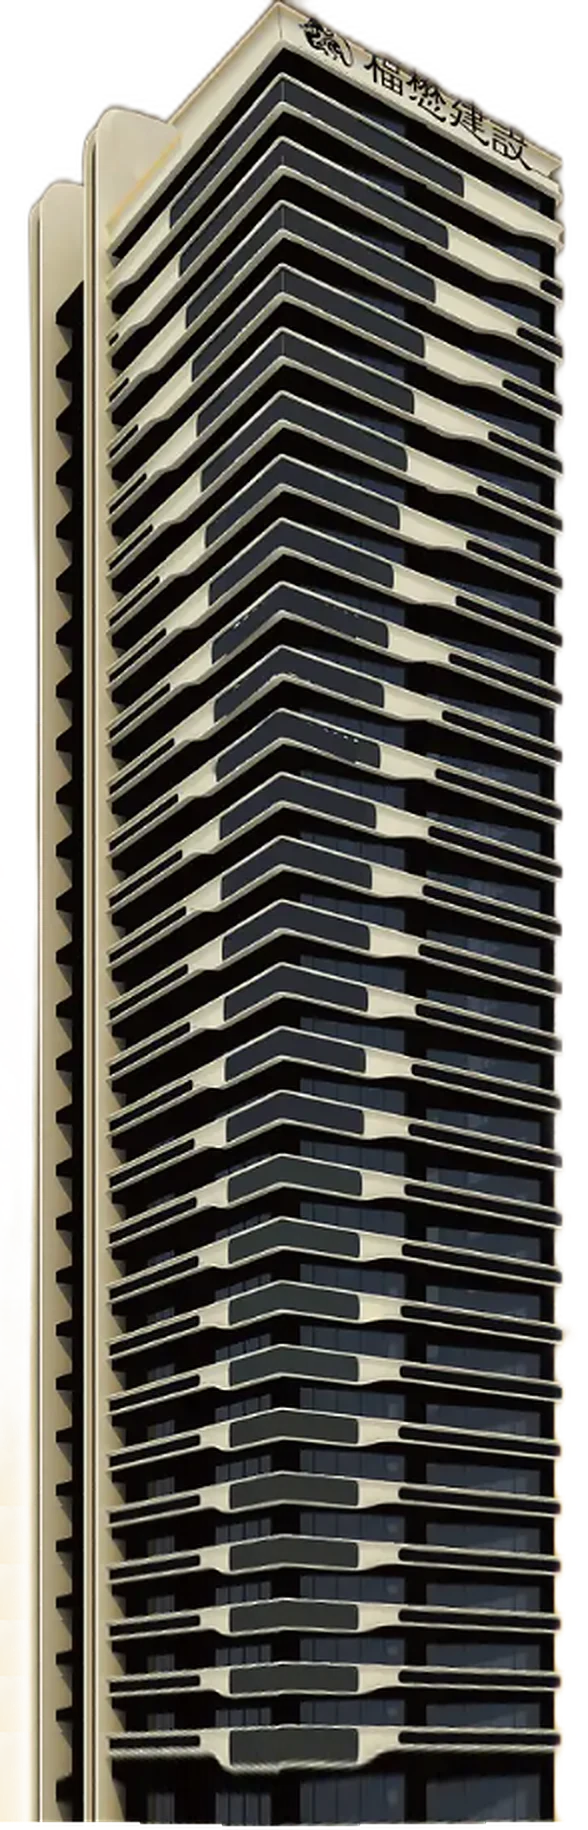
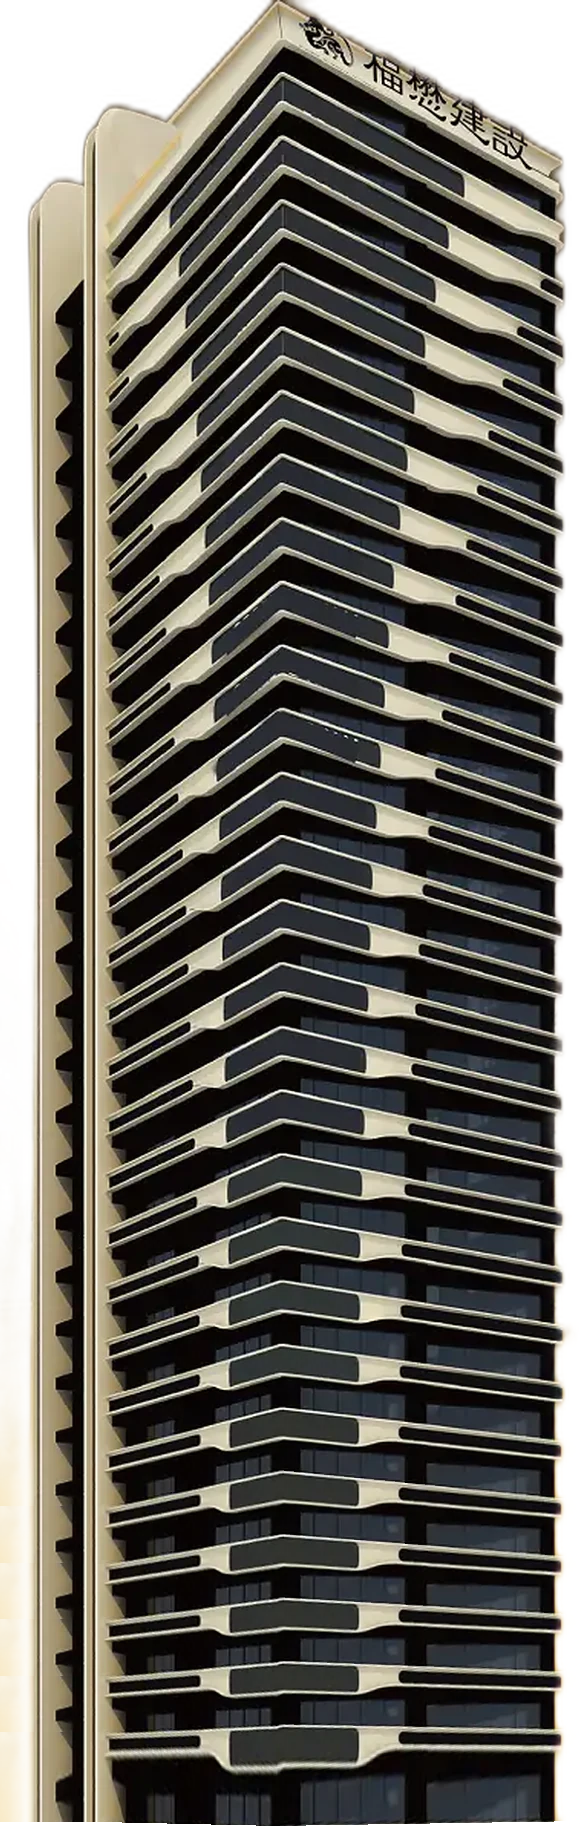
update .gitignore to include additional dependencies, build outputs, and IDE configurations; modify README for clarity on image source

diff --git a/README.md b/README.md
@@ -78,7 +78,7 @@ tools/tower-cutout/         外觀去背與樓層多邊形產生器（Python）
 
 ## 換外觀圖
 
-目前用的是官網截圖（386px 寬），放大會有點糊。拿到同角度的高解析渲染圖後：
+目前用的是招租 DM 裁出的外觀（`tools/tower-cutout/flyer-render.png`，約 1.3 倍於原官網截圖的解析度）。若拿到同角度的高解析渲染圖：
 
 ```bash
 cd tools/tower-cutout
